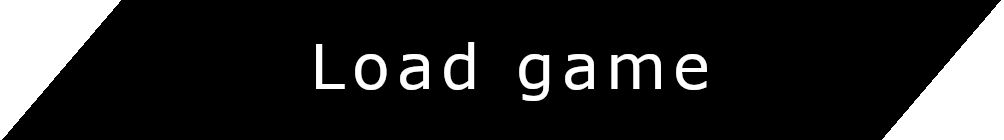
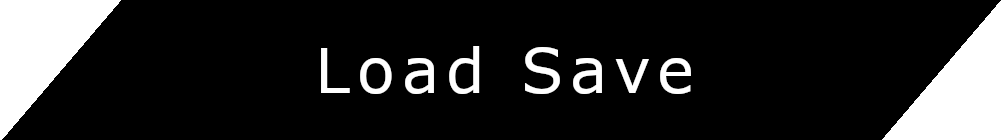
Menu opgeschoond

Changed region(s): [[0.3088, 0.2857, 0.7102, 0.7429]]

diff --git a/Prism.Game/src/States/MainMenuState.cpp b/Prism.Game/src/States/MainMenuState.cpp
@@ -18,92 +18,83 @@
 #include "Variables.h"
 
 namespace States {
-	MainMenuState::MainMenuState() = default;
 
-	void MainMenuState::onInit(Context & context)
-	{
-		loadMusic(context);
-		context.stateMachine->addState<CreditsState>(context);
-		context.stateMachine->addState<ResolutionMenuState>(context);
-		context.stateMachine->addState<HelpState>(context);
-		context.stateMachine->addState<HighScoreState>(context);
+    using namespace Variables::Resources;
+    using namespace Variables::Visual::MainMenu;
 
-		std::function<void()> callback = [&context](){
-			if (!context.stateMachine->hasState<LevelSelectionState>()) {
-				context.stateMachine->addState<LevelSelectionState>(context);
-			}
-			context.stateMachine->setState<LevelSelectionState>(context);
-		};
+    void MainMenuState::onInit(Context &context) {
+        loadMusic(context);
+        context.stateMachine->addState<CreditsState>(context);
+        context.stateMachine->addState<ResolutionMenuState>(context);
+        context.stateMachine->addState<HelpState>(context);
+        context.stateMachine->addState<HighScoreState>(context);
 
-		std::function<void()> loadCallback = [&context](){
-			if (!context.stateMachine->hasState<SaveSelectionState>()) {
-				context.stateMachine->addState<SaveSelectionState>(context);
-			}
-			context.stateMachine->setState<SaveSelectionState>(context);
-		};
+        std::function<void()> callback = [&context]() {
+            if (!context.stateMachine->hasState<LevelSelectionState>()) {
+                context.stateMachine->addState<LevelSelectionState>(context);
+            }
+            context.stateMachine->setState<LevelSelectionState>(context);
+        };
 
-		std::function<void()> creditsCallback = [&context]() { context.stateMachine->setState<CreditsState>(context); };
-		std::function<void()> settingsCallback = [&context]()
-		{
-			context.stateMachine->setState<ResolutionMenuState>(context);
-		};
-		std::function<void()> helpCallback = [&]() {context.stateMachine->setState<HelpState>(context); };
-		std::function<void()> highscoreCallback = [&context]() {context.stateMachine->setState<HighScoreState>(context); };
-		std::function<void()> quitCallback = [&]() {
-			if (exitBool) {
-				exit(0);
-			}
-			exitBool = true;
-		};
+        std::function<void()> loadCallback = [&context]() {
+            if (!context.stateMachine->hasState<SaveSelectionState>()) {
+                context.stateMachine->addState<SaveSelectionState>(context);
+            }
+            context.stateMachine->setState<SaveSelectionState>(context);
+        };
 
-		const float aspect = float(context.window->width) / float(context.window->height);
-    
-		menuBuilder.addControl(-0.35,  0.7, 0.6, 0.18, "img/NewGameButton.png", callback);
-		menuBuilder.addControl(-0.35,  0.4, 0.6, 0.18, "img/LoadGameButton.png", loadCallback);
-		menuBuilder.addControl(-0.35,  0.1, 0.6, 0.18, "img/ToCredits.png", creditsCallback);
-		menuBuilder.addControl(-0.35, -0.2, 0.6, 0.18, "img/ToHelp.png", helpCallback);
-		menuBuilder.addControl(-0.35, -0.5, 0.6, 0.18, "img/HighscoreButton.png", highscoreCallback);
-		menuBuilder.addControl(-0.98, 0.9 , 0.05, 0.05*aspect, "img/settings.png", settingsCallback);
-		menuBuilder.addControl(-0.35, -0.8, 0.6, 0.18, "img/QuitGameButton.png", quitCallback);
-//		menuBuilder.addControl(-0.7, 0.49, 0.35, 0.1, "img/nightmare_mode.png", nightmareModeCallback);
+        std::function<void()> creditsCallback = [&context]() { context.stateMachine->setState<CreditsState>(context); };
+        std::function<void()> settingsCallback = [&context]() {
+            context.stateMachine->setState<ResolutionMenuState>(context);
+        };
+        std::function<void()> helpCallback = [&]() { context.stateMachine->setState<HelpState>(context); };
+        std::function<void()> highscoreCallback = [&context]() {
+            context.stateMachine->setState<HighScoreState>(context);
+        };
+        std::function<void()> quitCallback = [&]() {
+            if (exitBool) {
+                exit(0);
+            }
+            exitBool = true;
+        };
 
-		menu = menuBuilder.buildMenu();
+        const float aspect = float(context.window->width) / float(context.window->height);
 
-		renderDevice = Renderer::Graphics::OpenGL::OGLRenderDevice::getRenderDevice();
-		renderDevice->setClearColour(1.f, 1.f, 1.f, 1.f);
-	}
+        const auto btnHeight = MENU_HEIGHT * aspect;
+        auto y = .7f;
+        auto s = MENU_MARGIN + MENU_HEIGHT;
 
-	void MainMenuState::onUpdate(Context & context)
-	{
-		cooldown += context.deltaTime;
-		renderDevice->clearScreen();
-		menuRenderer.renderMenu(*menu, context.window->width, context.window->height);
+        menuBuilder.addControl(-0.35f, y -= s, MENU_WIDTH, btnHeight, Sprites::MainMenu::NEW_GAME, callback);
+        menuBuilder.addControl(-0.35f, y -= s, MENU_WIDTH, btnHeight, Sprites::MainMenu::LOAD_SAVE, loadCallback);
+        menuBuilder.addControl(-0.35f, y -= s, MENU_WIDTH, btnHeight, Sprites::MainMenu::CREDITS, creditsCallback);
+        menuBuilder.addControl(-0.35f, y -= s, MENU_WIDTH, btnHeight, Sprites::MainMenu::HELP, helpCallback);
+        menuBuilder.addControl(-0.35f, y -= s, MENU_WIDTH, btnHeight, Sprites::MainMenu::HIGHSCORE, highscoreCallback);
+        menuBuilder.addControl(-0.35f, y -= s, MENU_WIDTH, btnHeight, Sprites::MainMenu::QUIT, quitCallback);
+        menuBuilder.addControl(-0.98f, 0.9, 0.05, 0.05f * aspect, Sprites::MainMenu::SETTINGS, settingsCallback);
 
-		auto input = context.inputManager;
-		if (menu->handleInput(*context.inputManager, context.window->width, context.window->height)) {
-			return;
-		}
+        menu = menuBuilder.buildMenu();
 
-		context.window->swapScreen();
-	}
+        renderDevice = Renderer::Graphics::OpenGL::OGLRenderDevice::getRenderDevice();
+        renderDevice->setClearColour(1.f, 1.f, 1.f, 1.f);
+    }
 
-	void MainMenuState::onEnter(Context & context)
-	{
-		context.audioManager->playMusic("MainMenu");
-		nightmareMode = false;
-	}
+    void MainMenuState::onUpdate(Context &context) {
+        renderDevice->clearScreen();
+        menuRenderer.renderMenu(*menu, context.window->width, context.window->height);
 
-	void MainMenuState::onLeave(Context & context)
-	{
- 	}
+        auto input = context.inputManager;
+        menu->handleInput(*context.inputManager, context.window->width, context.window->height);
 
-	MainMenuState::~MainMenuState()
-	{
-	}
-	void MainMenuState::loadMusic(Context & context)
-	{
-		context.audioManager->addMusic("MainMenu", "MainMenu.wav");
-		context.audioManager->addSound("NightmareOn", "NightmareModeOn.wav");
-		context.audioManager->addSound("NightmareOff", "NightmareModeOff.wav");
-	}
+        context.window->swapScreen();
+    }
+
+    void MainMenuState::onEnter(Context &context) {
+        context.audioManager->playMusic("MainMenu");
+    }
+
+    void MainMenuState::loadMusic(Context &context) {
+        context.audioManager->addMusic("MainMenu", "MainMenu.wav");
+        context.audioManager->addSound("NightmareOn", "NightmareModeOn.wav");
+        context.audioManager->addSound("NightmareOff", "NightmareModeOff.wav");
+    }
 }

diff --git a/Prism.Game/include/Variables.h b/Prism.Game/include/Variables.h
@@ -12,39 +12,59 @@ namespace Variables {
 
         namespace Sprites {
             typedef ResourcePath SpritePath;
-            // TODO: Kijk of dit niet geconcatinate kunnen worden
+
             constexpr SpritePath PLAIN_BLACK = "img/Black.png";
             constexpr SpritePath PLAIN_WHITE = "img/White.png";
             constexpr SpritePath WHITE_BORDERED = "img/White_Bordered.png";
-            constexpr SpritePath GAME_OVER = "img/gameover.png";
-            constexpr SpritePath NEW_GAME = "img/NewGameButton.png";
+            constexpr SpritePath GAME_OVER = "img/menus/normal/gameover.png";
+            constexpr SpritePath BACK = "img/menus/normal/Back.png";
 
-	        constexpr SpritePath SELECT_LEVEL = "img/menus/normal/select_level.png";
-	        constexpr SpritePath BACK = "img/menus/normal/Back.png";
-	        constexpr SpritePath LEVEL_SLOT_FILLED = "img/menus/normal/LoadLevelButton_Filled.png";
-	        constexpr SpritePath LEVEL_SLOT_EMPTY = "img/menus/normal/LoadLevelButton_Empty.png";
-	        constexpr SpritePath PREVIOUS_BUTTON = "img/menus/normal/PreviousPageButton.png";
-	        constexpr SpritePath PREVIOUS_BUTTON_DISABLED = "img/menus/normal/PreviousPageButton_Disabled.png";
-	        constexpr SpritePath NEXT_BUTTON = "img/menus/normal/NextPageButton.png";
-	        constexpr SpritePath NEXT_BUTTON_DISABLED = "img/menus/normal/NextPageButton_Disabled.png";
-	        constexpr SpritePath BTN_NIGHTMARE_MODE = "img/menus/normal/nightmare_mode.png";
-
-            namespace NightMare {
-	            constexpr SpritePath SELECT_LEVEL = "img/menus/nightmare/select_level.png";
-	            constexpr SpritePath BACK = "img/menus/nightmare/Back.png";
-	            constexpr SpritePath BTN_NIGHTMARE_MODE = "img/menus/nightmare/nightmare_mode.png";
-	            constexpr SpritePath LEVEL_SLOT_FILLED = "img/menus/nightmare/LoadLevelButton_Filled.png";
-	            constexpr SpritePath LEVEL_SLOT_EMPTY = "img/menus/nightmare/LoadLevelButton_Empty.png";
-	            constexpr SpritePath PREVIOUS_BUTTON = "img/menus/nightmare/PreviousPageButton.png";
-	            constexpr SpritePath PREVIOUS_BUTTON_DISABLED = "img/menus/nightmare/PreviousPageButton_Disabled.png";
-	            constexpr SpritePath NEXT_BUTTON = "img/menus/nightmare/NextPageButton.png";
-	            constexpr SpritePath NEXT_BUTTON_DISABLED = "img/menus/nightmare/NextPageButton_Disabled.png";
+            namespace MainMenu {
+                constexpr SpritePath HELP = "img/ToHelp.png";
+                constexpr SpritePath NEW_GAME = "img/menus/normal/NewGameButton.png";
+                constexpr SpritePath LOAD_SAVE = "img/menus/normal/LoadGameButton.png";
+                constexpr SpritePath CREDITS = "img/ToCredits.png";
+                constexpr SpritePath HIGHSCORE =  "img/HighscoreButton.png";
+                constexpr SpritePath SETTINGS = "img/settings.png";
+                constexpr SpritePath QUIT = "img/QuitGameButton.png";
             }
 
+            namespace WorldSelection {
+                constexpr SpritePath SELECT_LEVEL = "img/menus/normal/select_level.png";
+                constexpr SpritePath LEVEL_SLOT_FILLED = "img/menus/normal/LoadLevelButton_Filled.png";
+                constexpr SpritePath LEVEL_SLOT_EMPTY = "img/menus/normal/LoadLevelButton_Empty.png";
+                constexpr SpritePath PREVIOUS_BUTTON = "img/menus/normal/PreviousPageButton.png";
+                constexpr SpritePath PREVIOUS_BUTTON_DISABLED = "img/menus/normal/PreviousPageButton_Disabled.png";
+                constexpr SpritePath NEXT_BUTTON = "img/menus/normal/NextPageButton.png";
+                constexpr SpritePath NEXT_BUTTON_DISABLED = "img/menus/normal/NextPageButton_Disabled.png";
+                constexpr SpritePath BTN_NIGHTMARE_MODE = "img/menus/normal/nightmare_mode.png";
+
+                namespace NightMare {
+                    constexpr SpritePath SELECT_LEVEL = "img/menus/nightmare/select_level.png";
+                    constexpr SpritePath BACK = "img/menus/nightmare/Back.png";
+                    constexpr SpritePath BTN_NIGHTMARE_MODE = "img/menus/nightmare/nightmare_mode.png";
+                    constexpr SpritePath LEVEL_SLOT_FILLED = "img/menus/nightmare/LoadLevelButton_Filled.png";
+                    constexpr SpritePath LEVEL_SLOT_EMPTY = "img/menus/nightmare/LoadLevelButton_Empty.png";
+                    constexpr SpritePath PREVIOUS_BUTTON = "img/menus/nightmare/PreviousPageButton.png";
+                    constexpr SpritePath PREVIOUS_BUTTON_DISABLED = "img/menus/nightmare/PreviousPageButton_Disabled.png";
+                    constexpr SpritePath NEXT_BUTTON = "img/menus/nightmare/NextPageButton.png";
+                    constexpr SpritePath NEXT_BUTTON_DISABLED = "img/menus/nightmare/NextPageButton_Disabled.png";
+                }
+            }
         }
     }
     namespace Visual {
-        namespace LevelSelection {
+
+        constexpr int STANDARD_BUTTON_WIDTH = 1004;
+        constexpr int STANDARD_BUTTON_HEIGTH = 140;
+
+        namespace MainMenu {
+            constexpr float MENU_WIDTH = 0.7;
+            constexpr float MENU_HEIGHT = MENU_WIDTH * STANDARD_BUTTON_HEIGTH / STANDARD_BUTTON_WIDTH;
+            constexpr float MENU_MARGIN = .1f;
+        }
+
+        namespace WorldSelection {
             constexpr int COLUMNS = 4;
             constexpr int ROWS = 2;
             constexpr float OUTER_MARGIN = .2f;

diff --git a/Prism.Game/src/States/PrismGame.cpp b/Prism.Game/src/States/PrismGame.cpp
@@ -45,10 +45,10 @@ namespace States {
 
 	void PrismGame::onInit(Context & context)
 	{
-		auto floor = entityFactory.getInstance().createFloor(entityManager);
-		auto scene = entityFactory.getInstance().createScene(entityManager);
-		auto camera = entityFactory.getInstance().createCamera(entityManager);
-		auto mousePointer = entityFactory.getInstance().createCameraPointer(entityManager);
+		auto floor = EntityFactory::getInstance().createFloor(entityManager);
+		auto scene = EntityFactory::getInstance().createScene(entityManager);
+		auto camera = EntityFactory::getInstance().createCamera(entityManager);
+		auto mousePointer = EntityFactory::getInstance().createCameraPointer(entityManager);
 		auto sceneComponent = entityManager.getComponent<SceneComponent>(scene);
 
 		sceneComponent->scene.ambientLightColor = Math::Vector3f{ 1.0f, 1.0f, 1.0f };
@@ -201,7 +201,7 @@ namespace States {
 
 	int PrismGame::Fps(Context &context)
 	{
-		return(floor(1.0 / context.deltaTime));
+		return static_cast<int>(floor(1.0 / context.deltaTime));
 	}
 
 	void PrismGame::toggleFPS(Context & context)
@@ -230,15 +230,7 @@ namespace States {
 	void PrismGame::onLeave(Context &context) {
 	}
   
-	void PrismGame::toggleNightmare(Context &context)
-	{
-		if (!isNightmareMode) {
-			isNightmareMode = true;
-		}
-		else {
-			isNightmareMode = false;
-		}
-	}
+
 	bool PrismGame::isNightmare()
 	{
 		return isNightmareMode;

diff --git a/Prism.Game/src/ECS/Systems/CheatSystem.cpp b/Prism.Game/src/ECS/Systems/CheatSystem.cpp
@@ -160,28 +160,13 @@ namespace ECS {
 			auto input = context.inputManager;
 
 			// TODO: Later naar in game buttons
-			if (input->isKeyPressed(Key::KEY_H))
-			{
-				increaseHealth();
-			}
-			else if (input->isKeyPressed(Key::KEY_J)) {
-				decreaseHealth();
-			}
-			else if (input->isKeyPressed(Key::KEY_R)) {
-				increaseResources();
-			}
-			else if (input->isKeyPressed(Key::KEY_T)) {
-				decreaseResources();
-			}
-			else if (input->isKeyPressed(Key::KEY_PLUS)) {
-				increaseGameSpeed();
-			}
-			else if (input->isKeyPressed(Key::KEY_MIN)) {
-				decreaseGameSpeed();
-			}
-			else if (input->isKeyPressed(Key::KEY_END)) {
-				resetGameSpeed();
-			}
+			if (input->isKeyPressed(Key::KEY_H)) increaseHealth();
+			if (input->isKeyPressed(Key::KEY_J)) decreaseHealth();
+			if (input->isKeyPressed(Key::KEY_R)) increaseResources();
+			if (input->isKeyPressed(Key::KEY_T)) decreaseResources();
+			if (input->isKeyPressed(Key::KEY_PLUS)) increaseGameSpeed();
+			if (input->isKeyPressed(Key::KEY_MIN)) decreaseGameSpeed();
+			if (input->isKeyPressed(Key::KEY_END)) resetGameSpeed();
 		}
 
 	}

diff --git a/Prism.Game/include/States/MainMenuState.h b/Prism.Game/include/States/MainMenuState.h
@@ -11,23 +11,18 @@ namespace States {
 	class MainMenuState : public State
 	{
 	public:
-		MainMenuState();
+		MainMenuState() = default;
 
 		void onInit(Context &context) override;
 		void onUpdate(Context &context) override;
 		void onEnter(Context & context) override;
-		void onLeave(Context & context) override;
-		~MainMenuState();
 
 	private:
 		Menu::MenuRenderer menuRenderer;
 		bool exitBool = false;
 		Menu::MenuBuilder menuBuilder;
 		std::unique_ptr<Menu::Menu> menu;
-		float cooldown = 0.0f;
-		float maxCooldown = 1.0f;
 		Renderer::Graphics::RenderDevice* renderDevice;
-		bool nightmareMode = false;
 		void loadMusic(Context &context);
 	};
 }

diff --git a/Prism.Game/include/States/PrismGame.h b/Prism.Game/include/States/PrismGame.h
@@ -26,8 +26,6 @@ namespace States {
 
 		void onLeave(Context &context) override;
 
-		void toggleNightmare(Context &context);
-
 		bool isNightmare();
 
 		std::string getLevel() const { return levelPath; }
@@ -35,7 +33,6 @@ namespace States {
 	private:
 		ECS::EntityManager entityManager;
 		ECS::SystemManager systemManager;
-		EntityFactory entityFactory;
 		Menu::MenuRenderer menuRenderer;
 		Menu::MenuBuilder menuBuilder;
 		std::unique_ptr<Menu::Menu> menu;

diff --git a/Prism.Game/include/States/WorldSelectionState.h b/Prism.Game/include/States/WorldSelectionState.h
@@ -33,6 +33,6 @@ namespace States {
         Renderer::Graphics::RenderDevice *renderDevice{nullptr};
         bool nightmareMode{false};
         int currentPage{0};
-        static constexpr int pageSize{Variables::Visual::LevelSelection::ROWS * Variables::Visual::LevelSelection::COLUMNS};
+        static constexpr int pageSize{Variables::Visual::WorldSelection::ROWS * Variables::Visual::WorldSelection::COLUMNS};
     };
 }

diff --git a/Prism.Game/src/States/WorldSelectionState.cpp b/Prism.Game/src/States/WorldSelectionState.cpp
@@ -12,7 +12,8 @@
 using namespace Variables;
 using namespace Variables::Resources;
 using namespace Variables::Resources::Sprites;
-using namespace Variables::Visual::LevelSelection;
+using namespace Variables::Resources::Sprites::WorldSelection;
+using namespace Variables::Visual::WorldSelection;
 
 namespace States {
 
